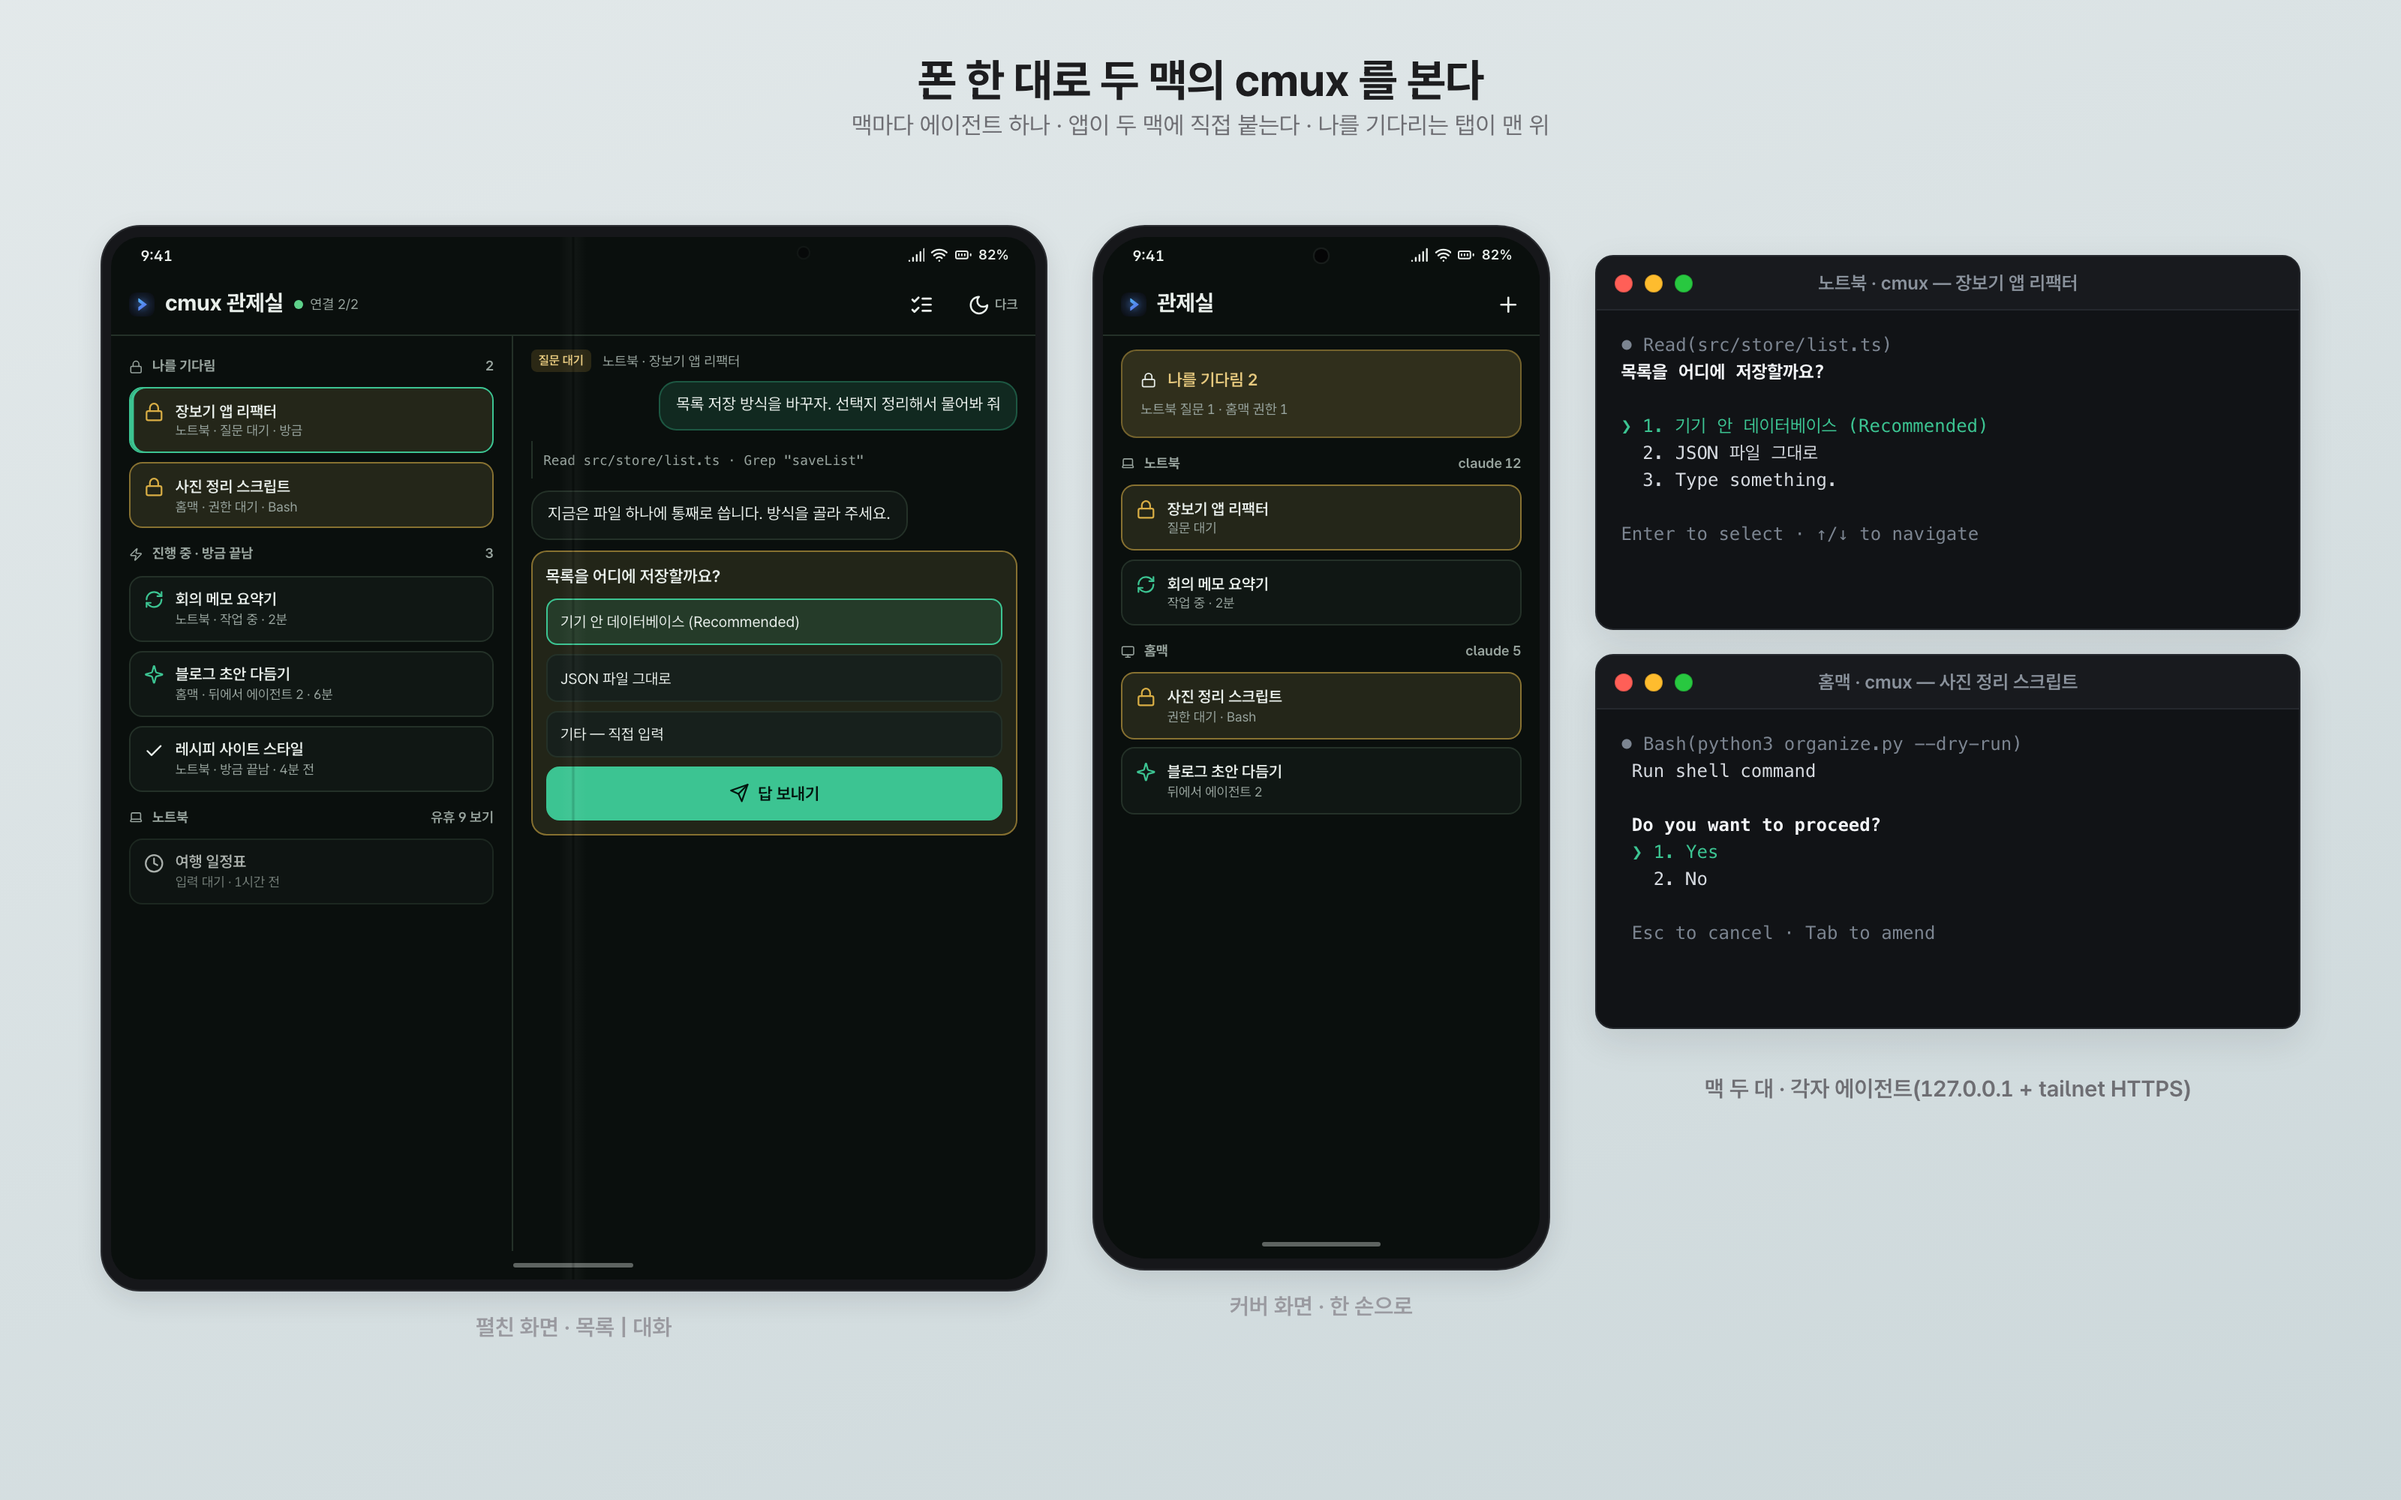
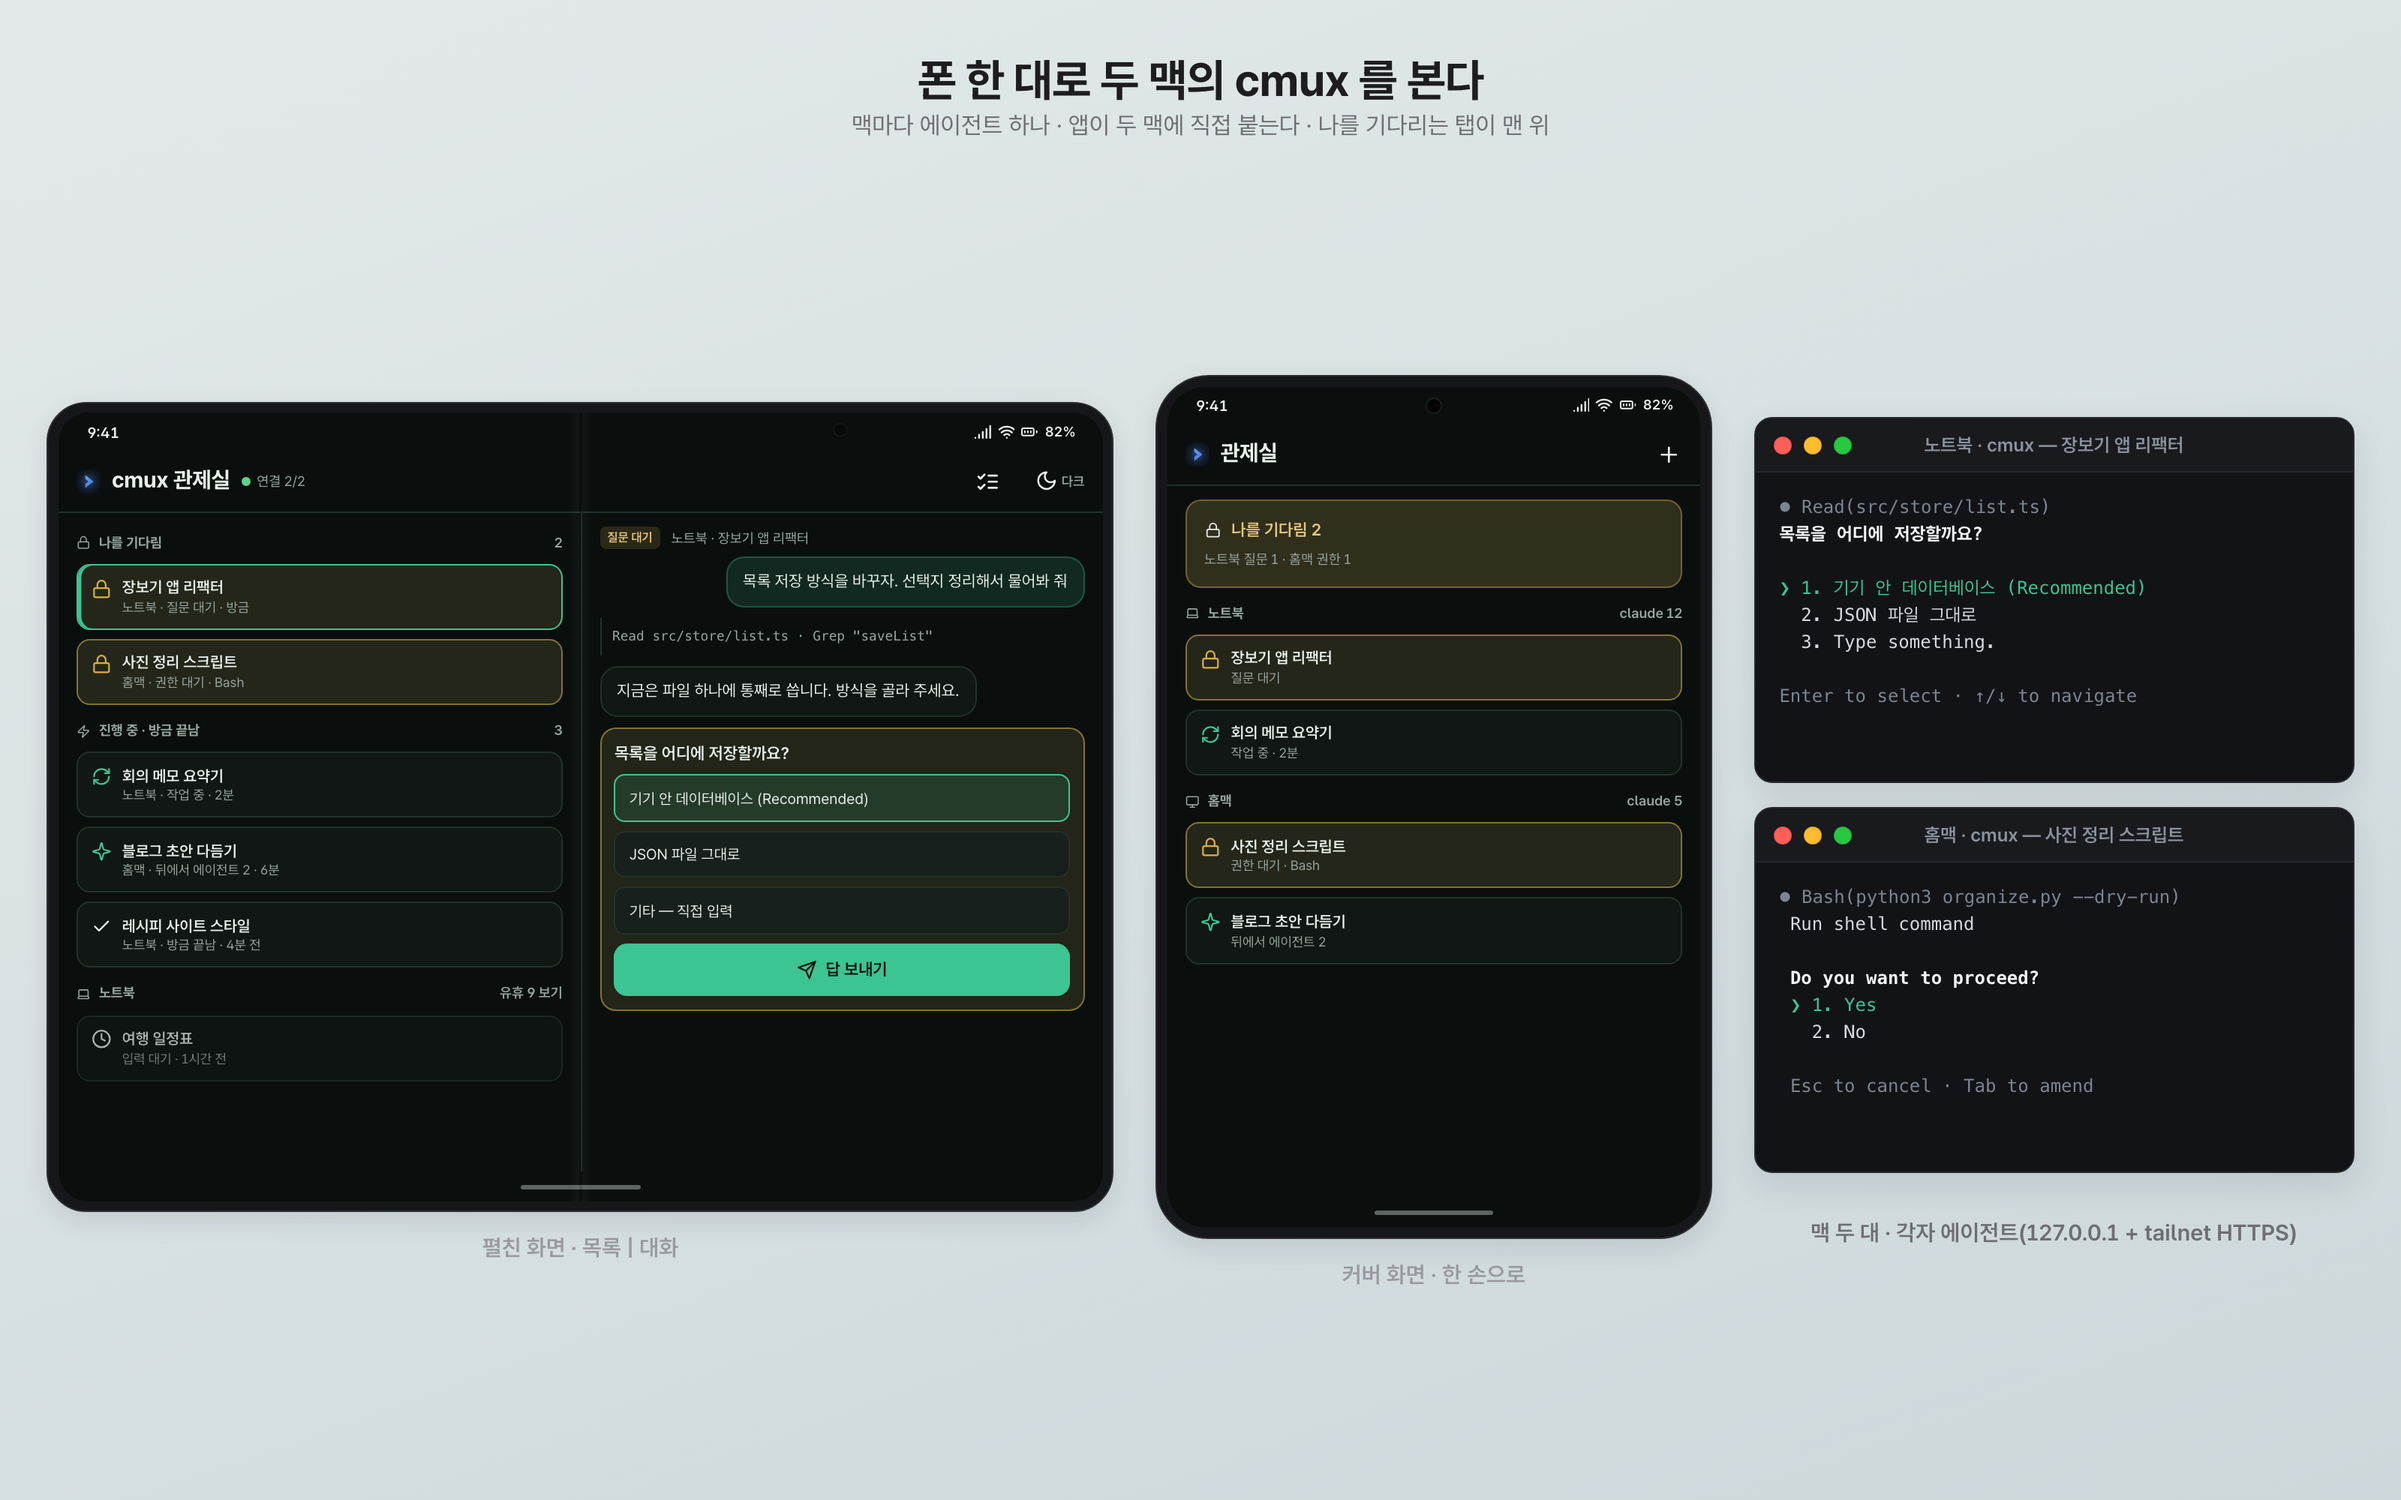
docs: re-render mockups at real Galaxy Z Fold8 ratios

diff --git a/docs/mockups/hero.html b/docs/mockups/hero.html
@@ -7,7 +7,7 @@
 <link rel="stylesheet" href="https://mockup-kit.invalid/kit.css">
 <script src="https://mockup-kit.invalid/kit.js"></script>
 <style>
-  .layout { position: absolute; top: 150px; left: 0; right: 0; bottom: 0; display: flex; align-items: flex-start; justify-content: center; gap: 30px; }
+  .layout { position: absolute; top: 130px; left: 0; right: 0; bottom: 20px; display: flex; align-items: center; justify-content: center; gap: 28px; }
   .sec { display:flex; align-items:center; gap:8px; font-size:12.5px; font-weight:700; color:var(--dim); margin-top:4px; }
   .sec .n { margin-left:auto; font-weight:600; }
   .tab { display:flex; gap:10px; align-items:flex-start; padding:10px 12px; border-radius:12px; background:var(--panel); border:1px solid var(--border); }
@@ -25,8 +25,8 @@
   .askcard { border:1px solid color-mix(in srgb, var(--warn) 55%, transparent); background: color-mix(in srgb, var(--warn) 9%, var(--panel)); border-radius:14px; padding:12px; display:flex; flex-direction:column; gap:8px; }
   .opt { padding:9px 12px; border-radius:10px; background:var(--panel2); border:1px solid var(--border); font-size:13.5px; }
   .opt.on { border-color: var(--accent); background: var(--accent-tint); }
-  .macs { display:flex; flex-direction:column; gap:16px; width: 470px; margin-top: 20px; }
-  .terminal { height: 250px; }
+  .macs { display:flex; flex-direction:column; gap:16px; width: 400px; }
+  .terminal { height: 244px; }
   .terminal-body { font-size: 12px; line-height: 18px; }
   .caption-top { position:absolute; top:34px; left:0; right:0; text-align:center; }
 </style>
@@ -52,7 +52,7 @@
             <span class="icon-btn"><i data-icon="list-checks"></i></span>
             <span class="theme-btn"><i data-icon="moon"></i><span>다크</span></span>
           </div>
-          <div class="two-pane list-detail">
+          <div class="two-pane">
             <div class="pane">
               <div class="sec"><i data-icon="lock"></i>나를 기다림<span class="n">2</span></div>
               <div class="col-list">

diff --git a/docs/mockups/workspace.html b/docs/mockups/workspace.html
@@ -8,7 +8,7 @@
 <script src="https://mockup-kit.invalid/kit.js"></script>
 <style>
   .caption-top { position:absolute; top:34px; left:0; right:0; text-align:center; }
-  .layout { position:absolute; top:140px; left:0; right:0; bottom:0; display:flex; justify-content:center; align-items:flex-start; gap:36px; }
+  .layout { position:absolute; top:130px; left:0; right:0; bottom:20px; display:flex; justify-content:center; align-items:center; gap:36px; }
   .win { border:1px solid var(--border); border-radius:12px; background:var(--panel); padding:10px; display:flex; flex-direction:column; gap:6px; }
   .win-h { display:flex; align-items:center; gap:6px; font-size:12.5px; font-weight:700; color:var(--dim); }
   .ws { border-radius:10px; background:var(--panel2); padding:8px 10px; display:flex; flex-direction:column; gap:4px; border-left:3px solid var(--c, var(--border)); }
@@ -23,7 +23,7 @@
   .field.mono { font-family:var(--mono); font-size:13px; }
   .note { font-size:12px; color:var(--dim); }
   .picks { display:flex; flex-wrap:wrap; gap:6px; }
-  .mac-window { width: 520px; height: 540px; }
+  .mac-window { width: 560px; height: 580px; }
   .mac-sidebar { width: 200px; }
   .sb-item { font-size: 12.5px; }
   .mac-body { padding: 0; }
@@ -44,7 +44,7 @@
   <div class="layout">
 
     <div class="dark">
-      <div class="fold-open" style="--zoom:.74">
+      <div class="fold-open" style="--zoom:.82">
         <div class="screen">
           <div class="status-bar" data-time="10:05"></div>
           <div class="app-bar">
@@ -54,7 +54,7 @@
             <span class="spacer"></span>
             <span class="switch on"></span>
           </div>
-          <div class="two-pane list-detail">
+          <div class="two-pane">
             <div class="pane">
               <div class="win">
                 <div class="win-h"><i data-icon="laptop"></i>노트북 · 창 1 · 활성</div>

diff --git a/docs/mockups/scenes/03-cover-phone.html b/docs/mockups/scenes/03-cover-phone.html
@@ -1,18 +1,18 @@
 <!doctype html>
 <html lang="ko"><head><meta charset="utf-8">
-<!-- 폴드8 커버 화면(세로 0.72:1) — 배경 G_close_cover -->
-<meta name="shot" content="w=300,h=417,scale=4.32">
+<!-- 폴드8 커버 화면(세로 0.63:1) — 배경 G_close_cover -->
+<meta name="shot" content="w=300,h=476,scale=3.8">
 <link rel="stylesheet" href="https://mockup-kit.invalid/kit.css">
 <script src="https://mockup-kit.invalid/kit.js"></script>
 <link rel="stylesheet" href="scene.css">
 </head><body>
 <style>
   .status-bar { height:22px; padding:0 14px 0 16px; }
-  .app-bar { height:38px; padding-left:12px; }
-  .content { padding:6px 10px 8px !important; gap:6px !important; }
-  .big { border-radius:12px; padding:8px 11px; }
+  .app-bar { height:44px; padding-left:12px; }
+  .content { padding:8px 10px 10px !important; gap:9px !important; }
+  .big { border-radius:12px; padding:10px 11px; }
   .big .n { font-size:28px; line-height:30px; font-weight:800; color:var(--warn-text); }
-  .tab { padding:7px 10px; align-items:center; }
+  .tab { padding:9px 10px; align-items:center; }
   .tab .t { font-size:16px; line-height:21px; }
   .tab .s { font-size:12.5px; line-height:16px; }
   .tab .ico { font-size:19px; margin-top:0; }

diff --git a/docs/mockups/screen.html b/docs/mockups/screen.html
@@ -35,7 +35,7 @@
 
     <!-- 대화 보기 -->
     <div class="dark">
-      <div class="fold-cover" style="--zoom:.72">
+      <div class="fold-cover" style="--zoom:.82">
         <div class="screen">
           <div class="status-bar" data-time="11:20"></div>
           <div class="app-bar">
@@ -64,7 +64,7 @@
 
     <!-- 화면 보기 -->
     <div class="dark">
-      <div class="fold-cover" style="--zoom:.72">
+      <div class="fold-cover" style="--zoom:.82">
         <div class="screen">
           <div class="status-bar" data-time="11:21"></div>
           <div class="app-bar">
@@ -97,7 +97,7 @@
 
     <!-- 여러 줄 보내기 -->
     <div class="dark">
-      <div class="fold-cover" style="--zoom:.72">
+      <div class="fold-cover" style="--zoom:.82">
         <div class="screen">
           <div class="status-bar" data-time="11:23"></div>
           <div class="app-bar">

diff --git a/docs/mockups/answer.html b/docs/mockups/answer.html
@@ -36,7 +36,7 @@
 
     <!-- 1 권한 -->
     <div class="dark">
-      <div class="fold-cover" style="--zoom:.72">
+      <div class="fold-cover" style="--zoom:.82">
         <div class="screen">
           <div class="status-bar" data-time="9:41"></div>
           <div class="app-bar">
@@ -72,7 +72,7 @@
 
     <!-- 2 질문 -->
     <div class="dark">
-      <div class="fold-cover" style="--zoom:.72">
+      <div class="fold-cover" style="--zoom:.82">
         <div class="screen">
           <div class="status-bar" data-time="9:42"></div>
           <div class="app-bar">
@@ -107,7 +107,7 @@
 
     <!-- 3 검토 -->
     <div class="dark">
-      <div class="fold-cover" style="--zoom:.72">
+      <div class="fold-cover" style="--zoom:.82">
         <div class="screen">
           <div class="status-bar" data-time="9:42"></div>
           <div class="app-bar">

diff --git a/docs/mockups/thumbnail.html b/docs/mockups/thumbnail.html
@@ -36,7 +36,7 @@
       <div class="pills"><span>Galaxy Z Fold8</span><span>macOS · cmux</span><span>Tailscale</span><span>FastAPI + Compose</span></div>
     </div>
     <div class="dark">
-      <div class="fold-cover" style="--zoom:.8">
+      <div class="fold-cover" style="--zoom:.9">
         <div class="screen">
           <div class="status-bar" data-time="9:41"></div>
           <div class="app-bar">

diff --git a/docs/mockups/scenes/03-cover-mac.html b/docs/mockups/scenes/03-cover-mac.html
@@ -1,6 +1,6 @@
 <!doctype html>
 <html lang="ko"><head><meta charset="utf-8">
-<meta name="shot" content="w=640,h=461,scale=2.8">
+<meta name="shot" content="w=640,h=517,scale=2.8">
 <link rel="stylesheet" href="https://mockup-kit.invalid/kit.css">
 <script src="https://mockup-kit.invalid/kit.js"></script>
 <link rel="stylesheet" href="scene.css">
